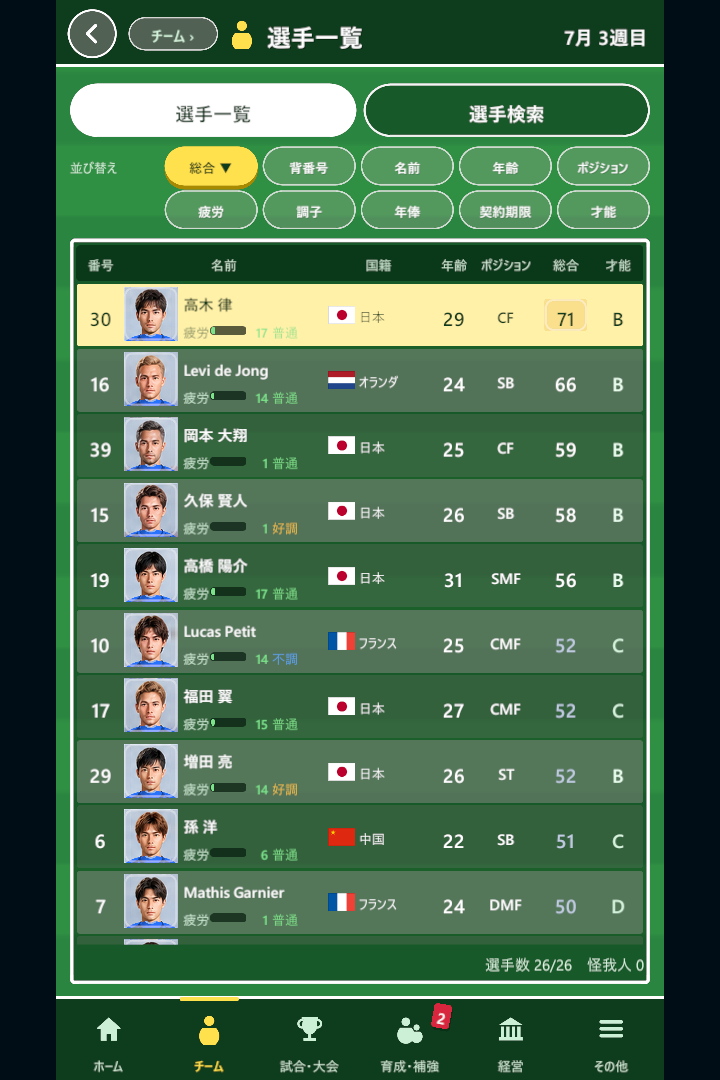
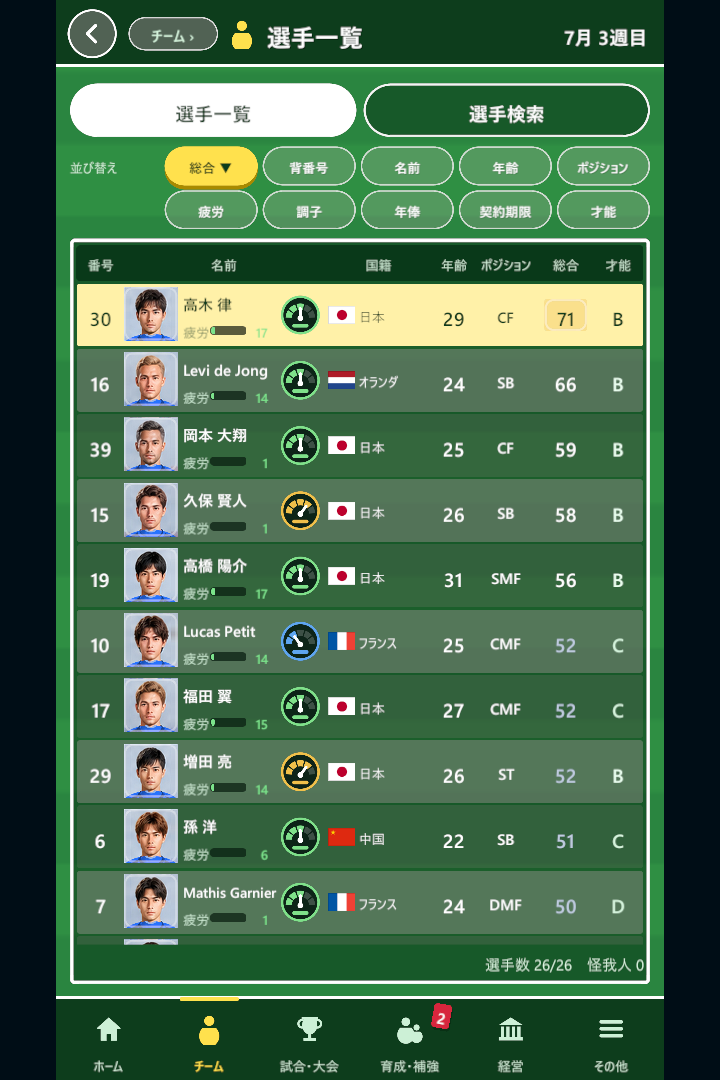
選手詳細の能力レーダー・調子のメーター・3Dのスコアボード・PKのGKを追記（日本語・英語・繁体字中国語）
- 紹介：「能力の形と調子がひと目で」を追加。3Dの試合にスコアボードとPKのGKの説明
- 遊び方：能力のレーダー・調子のメーターの見方と、PKの読み（止めるのは3〜4本に1本ほど）
- 画面写真：選手一覧（調子のメーター）・選手詳細・作戦カードの場面（新しいスコアボード）を差し替え

diff --git a/guide.html b/guide.html
@@ -60,6 +60,7 @@
       <li>能力にはそれぞれ<b>上限</b>があり、上限より上には育ちません。上限はキャンプや天才覚醒で上げられます。</li>
       <li>スキルを1つ持つごとに総合が<b>+1</b>、ユニークスキルは<b>+3</b>されます。</li>
       <li>他クラブの選手の能力は、スカウトが調べるほど正確に分かります。調べていない選手は数字に幅があります。</li>
+      <li>選手詳細では、6つの能力の形が数字の後ろのレーダーで分かります（一番上がオフェンスで、時計回りに能力の行と同じ順）。</li>
     </ul>
   </section>
 
@@ -84,6 +85,7 @@
       <li>試合に90分出ると疲れが約24たまります（スタミナが高い選手ほど少ない）。</li>
       <li>疲れが70を超えたまま練習させると、30%の確率で調子が下がります。</li>
       <li>調子（絶不調〜絶好調の5段階）で、成長は−10%〜+10%、試合の力は−6%〜+6%変わります。</li>
+      <li>調子はメーターのアイコンで表示されます。目盛りの数と針で段階が、色で絶不調（紫）・不調（青）・普通（緑）・好調（金）・絶好調（赤橙）が分かります。</li>
       <li>調子は、勝つと上がりやすく（30%）、負けると下がりやすく（25%）なります。MVPになると必ず上がります。休ませると上がりやすい（45%、個別の休養は65%）ですが、<b>チームの休みや練習で上がるのは好調まで、個別の休養で上がるのは普通まで</b>です。好調にしたいときは、試合前の監督の言葉を使いましょう。3週以上ベンチが続くと下がることがあります。</li>
       <li><b>絶好調は、勝利やMVPでしかなれません。</b>絶好調と絶不調は長く続かず、毎週30%の確率で一つ普通の側（好調・不調）へ戻ります。</li>
     </ul>
@@ -183,6 +185,10 @@
       <div class="card">
         <h3>疲れと交代</h3>
         <p>試合中も疲れがたまり、動きが落ちます。スタミナの低い選手は後半に交代させる、スキル「鉄人」「無尽蔵」の選手を使う、などで終盤の失点を防げます。</p>
+      </div>
+      <div class="card">
+        <h3>PK</h3>
+        <p>GKは蹴られる前に、どちらへ跳ぶかを読みます。読みが当たれば止めることがあります（ディフェンスが高いGKや、GKのスキルを持つ選手ほど当たりやすい）。PK戦で止めるのは、だいたい3〜4本に1本です。</p>
       </div>
     </div>
   </section>

diff --git a/en/guide.html b/en/guide.html
@@ -60,6 +60,7 @@
       <li>Each attribute has a <b>cap</b> it can't grow beyond. Caps can be raised by camps and talent awakening.</li>
       <li>Each skill adds <b>+1</b> to OVR; a unique skill adds <b>+3</b>.</li>
       <li>Other clubs' players' attributes become more accurate the more your scouts check them. Unscouted players show ranges.</li>
+      <li>In the player details, a radar behind the numbers shows the shape of the six attributes (Offense at the top, then clockwise in the same order as the list).</li>
     </ul>
   </section>
 
@@ -84,6 +85,7 @@
       <li>Playing 90 minutes adds about 24 fatigue (less for high-stamina players).</li>
       <li>Training with fatigue over 70 has a 30% chance to lower form.</li>
       <li>Form (5 levels, Terrible to Excellent) changes growth by −10% to +10% and match strength by −6% to +6%.</li>
+      <li>Form is shown as a meter icon: the lit segments and the needle show the level, and the color shows Terrible (purple), Poor (blue), Normal (green), Good (gold) or Excellent (red-orange).</li>
       <li>Form tends to rise after a win (30%) and drop after a loss (25%), and always rises for the MVP. Rest helps (45%, 65% for individual rest), but <b>team rest and training only raise form up to Good, and individual rest only up to Normal</b>. Use a pre-match team talk to lift players to Good. 3+ weeks on the bench can lower it.</li>
       <li><b>Excellent form comes only from a win or an MVP.</b> Excellent and Terrible form don't last: each week there is a 30% chance they move one step back toward normal (Good / Poor).</li>
     </ul>
@@ -183,6 +185,10 @@
       <div class="card">
         <h3>Fatigue & subs</h3>
         <p>Fatigue also builds during matches and slows players down. Sub low-stamina players in the second half, or use players with "Iron man" or "Inexhaustible", to avoid late goals.</p>
+      </div>
+      <div class="card">
+        <h3>Penalties</h3>
+        <p>The goalkeeper guesses which way to dive before the kick. A correct guess can lead to a save (keepers with high Defense or goalkeeping skills guess right more often). In shootouts, about one kick in three or four is saved.</p>
       </div>
     </div>
   </section>

diff --git a/zh/guide.html b/zh/guide.html
@@ -60,6 +60,7 @@
       <li>每項能力都有<b>上限</b>，無法成長超過上限。上限可透過集訓與天才覺醒提高。</li>
       <li>每擁有1個技能綜合<b>+1</b>，獨特技能<b>+3</b>。</li>
       <li>其他俱樂部球員的能力，球探調查得越多就越準確。未調查的球員數值會有範圍。</li>
+      <li>在球員詳情中，數字後方的雷達圖會顯示6項能力的形狀（最上方為進攻，依順時針與能力列表同順序）。</li>
     </ul>
   </section>
 
@@ -84,6 +85,7 @@
       <li>出賽90分鐘約累積24疲勞（耐力越高越少）。</li>
       <li>疲勞超過70仍練習，有30%機率狀態下降。</li>
       <li>狀態（極差〜絕佳5階段）會讓成長變化−10%〜+10%、比賽戰力變化−6%〜+6%。</li>
+      <li>狀態以儀表圖示顯示：亮起的刻度數量與指針表示階段，顏色則代表極差（紫）・不佳（藍）・普通（綠）・佳（金）・絕佳（橘紅）。</li>
       <li>贏球狀態容易上升（30%），輸球容易下降（25%）。成為MVP必定上升。休息容易上升（45%，個別休息65%），但<b>球隊休息與練習最多只能升到良好，個別休息最多只能升到普通</b>。想升到良好時，請在賽前使用教練的話。連續3週以上坐板凳可能下降。</li>
       <li><b>只有贏球或MVP才能達到絕佳。</b>絕佳與極差不會持續太久，每週有30%機率往普通方向回一階（良好・不佳）。</li>
     </ul>
@@ -183,6 +185,10 @@
       <div class="card">
         <h3>疲勞與換人</h3>
         <p>比賽中也會累積疲勞，動作變慢。下半場換下耐力低的球員，或使用擁有「鐵人」「無窮體力」的球員，能防止比賽尾聲失分。</p>
+      </div>
+      <div class="card">
+        <h3>PK</h3>
+        <p>門將會在射門前判斷要往哪邊撲。猜中方向就有機會撲出（防守能力高、或擁有門將技能的球員更容易猜中）。PK大戰中，大約每3〜4腳會撲出1腳。</p>
       </div>
     </div>
   </section>

diff --git a/index.html b/index.html
@@ -60,6 +60,8 @@
           <li>ハーフタイムに作戦・フォーメーション・選手交代を指示できる</li>
           <li>2倍速・4倍速・スキップで、見たいところだけ見られる</li>
           <li>選手の頭の上に名前を表示（自チームは青、相手は赤）</li>
+          <li>画面の上のスコアボードに、両チームのエンブレム・得点・時間・天気</li>
+          <li>PK戦では、GKがコースを読み当てれば止めることも</li>
           <li>時計は実際の試合と同じ0〜90分表示。アディショナルタイムもあります</li>
           <li>試合を見ずに結果だけ知ることも、2Dのハイライト表示に切り替えることもできる</li>
           <li>スマホは<b>縦持ちでも横持ちでも</b>試合ができる（設定で選べます）</li>
@@ -166,6 +168,13 @@
         <div>
           <h3>名前と顔写真を変える</h3>
           <p>自分のクラブの選手は、名前と顔写真を変えられます。顔写真はスマホやPCの写真から選べます。写真は端末の中だけに保存され、チームデータ交換には名前だけが入ります。</p>
+        </div>
+      </div>
+      <div class="card feature">
+        <img class="phone" src="img/feat_player_detail.png" alt="選手詳細の能力のレーダーと調子のメーター" loading="lazy">
+        <div>
+          <h3>能力の形と調子がひと目で</h3>
+          <p>選手詳細では、6つの能力の形が数字の後ろのレーダーで分かります。調子（絶不調〜絶好調の5段階）はメーターのアイコンで表示。選手一覧でも、目盛りの数と色で、だれが好調かすぐに見分けられます。</p>
         </div>
       </div>
       <div class="card feature">

diff --git a/en/index.html b/en/index.html
@@ -62,6 +62,8 @@
           <li>Give tactics, formation and substitution instructions at half-time</li>
           <li>2×, 4× speed and skip to watch only what you want</li>
           <li>Player names above their heads (your team in blue, opponents in red)</li>
+          <li>A scoreboard at the top with both clubs' crests, the score, the clock and the weather</li>
+          <li>In penalty shootouts, the keeper can save a kick by guessing the right side</li>
           <li>A real 0–90 minute clock, with added time</li>
           <li>You can also see only the result, or switch to 2D highlights</li>
           <li>On phones you can play matches <b>in portrait or landscape</b> (choose in Settings)</li>
@@ -168,6 +170,13 @@
         <div>
           <h3>Change names & photos</h3>
           <p>You can change the names and face photos of your own club's players, picking photos from your phone or PC. Photos stay on your device; only names are included in team data exchange.</p>
+        </div>
+      </div>
+      <div class="card feature">
+        <img class="phone" src="img/feat_player_detail.png" alt="Attribute radar and form meter in the player details" loading="lazy">
+        <div>
+          <h3>Attributes and form at a glance</h3>
+          <p>In the player details, a radar behind the numbers shows the shape of the six attributes. Form (five levels, Terrible to Excellent) is shown as a meter icon, so even in the player list you can spot who is in good form by the lit segments and the color.</p>
         </div>
       </div>
       <div class="card feature">

diff --git a/zh/index.html b/zh/index.html
@@ -62,6 +62,8 @@
           <li>中場休息時可指示戰術、陣型與換人</li>
           <li>2倍速・4倍速・跳過，只看想看的部分</li>
           <li>球員頭上顯示名字（我隊為藍色、對手為紅色）</li>
+          <li>畫面上方的記分板顯示兩隊隊徽・比分・時間・天氣</li>
+          <li>PK大戰中，門將猜中方向就有機會撲出</li>
           <li>和真實比賽一樣的0〜90分鐘計時，也有傷停補時</li>
           <li>也可以只看結果，或切換為2D精華</li>
           <li>手機可以<b>直握或橫握</b>進行比賽（在設定中選擇）</li>
@@ -168,6 +170,13 @@
         <div>
           <h3>變更名字與照片</h3>
           <p>自家俱樂部的球員可以變更名字與大頭照，照片可從手機或PC中選擇。照片只保存在裝置內，球隊資料交換只會包含名字。</p>
+        </div>
+      </div>
+      <div class="card feature">
+        <img class="phone" src="img/feat_player_detail.png" alt="球員詳情的能力雷達圖與狀態儀表" loading="lazy">
+        <div>
+          <h3>能力與狀態一目了然</h3>
+          <p>在球員詳情中，數字後方的雷達圖會顯示6項能力的形狀。狀態（極差〜絕佳5階段）以儀表圖示顯示，在球員一覽中也能從亮起的刻度與顏色，立刻看出誰的狀態好。</p>
         </div>
       </div>
       <div class="card feature">
